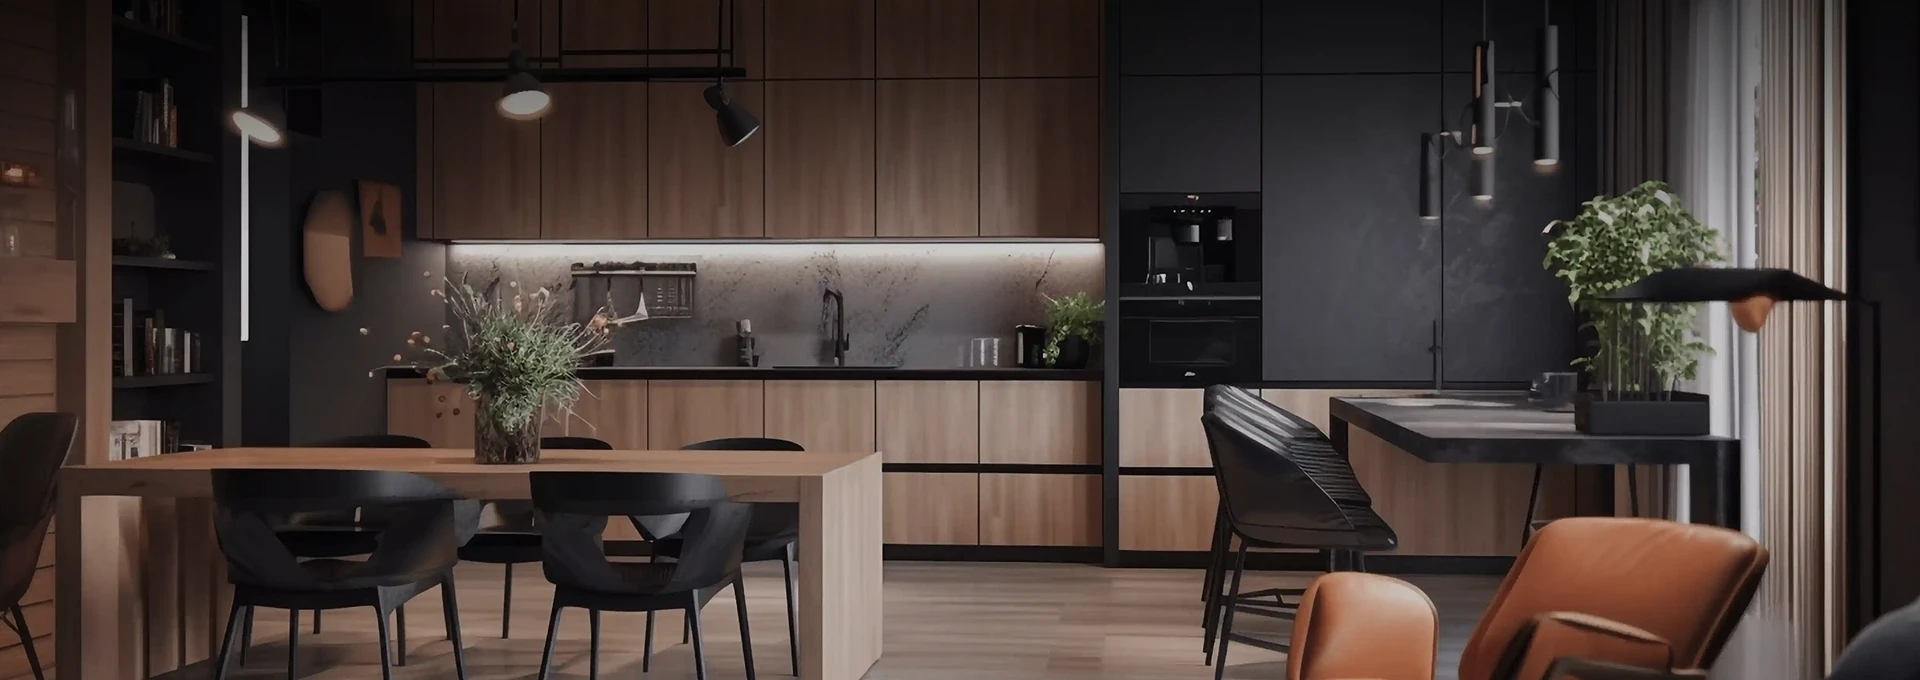
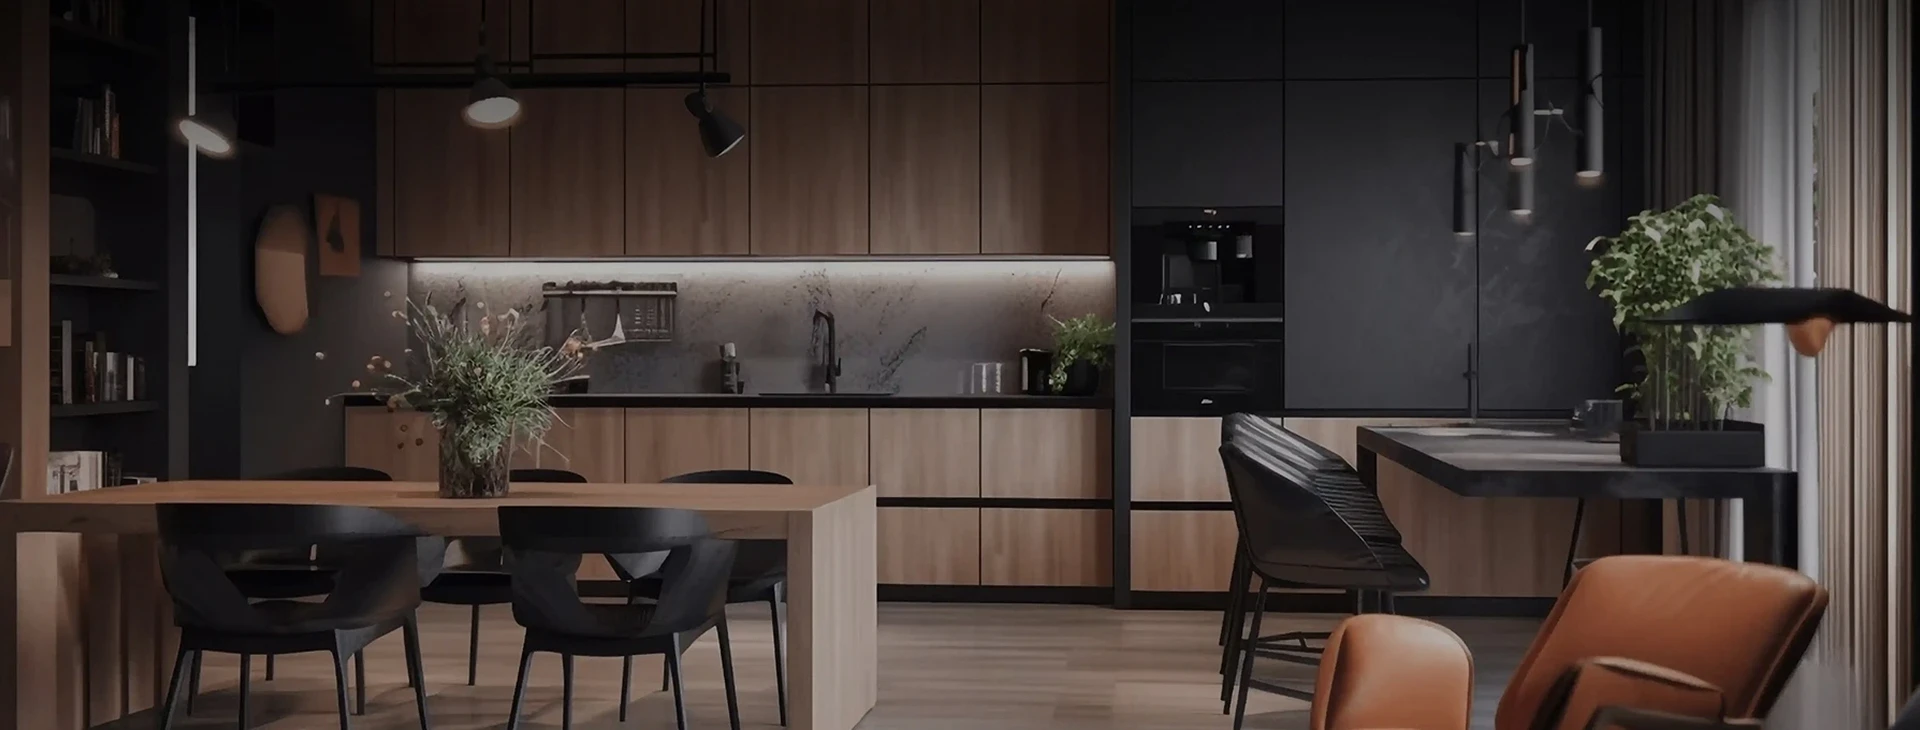
Hero section (#41)
* главный экран

* паралакс на главном экране

diff --git a/js/theme.js b/js/theme.js
@@ -1,27 +1,13 @@
-jQuery(function ($) {
-    /* Parallax home section */
-    $(window).scroll(function (e) {
-        var scrolled = $(window).scrollTop();
-        $('.parallax-home-section').css('top', (-(scrolled * .35)) + 'px'); // 35 - скорость прокрутки
-        $('.parallax-home-section-closets').css('top', (-(scrolled * .35)) + 'px'); // 35 - скорость прокрутки
-        $('.index-parallax-home-section').css('top', (-(scrolled * .35)) + 'px'); // 35 - скорость прокрутки
-
-    });
-});
-
-jQuery(function ($) {
-    $(window).on('scroll', function () {
-        const scrollTop = $(window).scrollTop();
-        const sectionTop = $('.parallax-background').offset().top;
-        const sectionHeight = $('.parallax-background').outerHeight();
-
-        if (scrollTop + window.innerHeight > sectionTop &&
-            scrollTop < sectionTop + sectionHeight) {
-
-            const offset = (scrollTop - sectionTop) * 0.25;
-            $('.parallax-background').css('transform', `translateY(${offset}px)`);
-        }
-    });
+/* Parallax home section */
+$(window).scroll(function (e) {
+    var scrolled = $(window).scrollTop();
+    $('.parallax-home-section').css('top', (-(scrolled * .35)) + 'px'); // 35 - скорость прокрутки
+    $('.parallax-home-section-closets').css('top', (-(scrolled * .35)) + 'px'); // 35 - скорость прокрутки
+    $('.index-parallax-home-section').css('top', (-(scrolled * .35)) + 'px'); // 35 - скорость прокрутки
+    $('.jobs-home-section').css('top', (-(scrolled * .35)) + 'px'); // 35 - скорость прокрутки
+    $('.closets-home-section').css('top', (-(scrolled * .35)) + 'px'); // 35 - скорость прокрутки
+    $('.parallax-home-section-portfolio').css('top', (-(scrolled * .35)) + 'px'); // 35 - скорость прокрутки
+    $('.home-cucina-parallax-home-section').css('top', (-(scrolled * .35)) + 'px'); // 35 - скорость прокрутки
 });
 
 /* End parallax home section */

diff --git a/css/theme.css b/css/theme.css
@@ -667,6 +667,12 @@ a.navbar-brand {
     overflow: hidden;
 } 
 
+@media (max-width: 991.98px) {
+    .main-home-section {
+        min-height: 500px;
+    } 
+}
+
 .home-section-height {
 	min-height: 425px; }
 
@@ -677,6 +683,16 @@ a.navbar-brand {
 			padding-bottom: 60px;
 		}
 	}
+
+.min-home-section-height {
+    min-height: 200px;
+}
+
+@media (max-width: 991.98px) {
+    .home-section-height {
+        min-height: 440px;
+    }
+}
 /** End main home section **/
 
 .home-cutting {
@@ -794,11 +810,46 @@ a.navbar-brand {
 	/*display: block;*/ 
 }
 
+/* Parallax home section closets */
+.jobs-home-section {
+	min-height: 400px;
+	width: 100%;
+	position: fixed;
+	background: url(../img/bg-jobs.webp) no-repeat;
+	background-position: 50% 50%;
+	background-size: cover;
+	z-index: -1;
+    top: 0;
+}
+
+h1.home-title {
+    margin-bottom: 0;
+}
+    
 /* md (less than 768px) */
 @media (max-width: 767.98px) {
     .parallax-home-section-closets {
         background-position: 25% 50%;
     }
+
+    .site-wrap {
+        min-height: 300px !important;
+        height: auto !important;
+    }
+
+    /* Parallax home section closets */
+    .jobs-home-section {
+        min-height: 300px !important;
+        background: url(../img/bg-jobs-mobile.webp) no-repeat;
+        background-position: 50% 50%;
+	    background-size: cover;
+    }
+
+    .home-section-height {
+        min-height: 300px;
+        height: 100% !important;
+    }
+
 }
 
 /* Parallax home section */

diff --git a/archive-portfolio.php b/archive-portfolio.php
@@ -12,8 +12,8 @@
 	
 <!-- Home section -->
 <div id="sp-home" class="scroll-points"></div>
-<section class="main-home-section">
-	<div class="parallax-home-section" style="min-height: 640px;"></div>
+<section class="site-wrap" style="height: 400px; z-index: auto;">
+	<div class="jobs-home-section" style="min-height: 400px;"></div>
     <header class="d-none d-lg-block">
         <!-- Header nav top -->
         <nav class="header-nav-top navbar navbar-expand-lg navbar-light d-none d-lg-block py-0">
@@ -246,7 +246,7 @@
 		<!-- /Header nav bottom -->
 	</header>
 	<div class="container">
-		<div class="row align-items-center home-section-height">
+		<div class="row align-items-center home-section-height min-home-section-height">
 			<div class="col-xl-10 col-xxl-9">
 				<h1 class="home-title" style="color: #fff;">Наши работы</h1>
 			</div>	

diff --git a/contact.php b/contact.php
@@ -10,10 +10,10 @@
 ?>
 
 
-<div class="site-wrap" style="height: 640px; z-index: auto;">
+<div class="site-wrap" style="height: 400px; z-index: auto;">
 	<!-- Header -->
 	<div class="site-navbar-wrap">
-		<div class="parallax-home-section" style="min-height: 640px;"></div>
+		<div class="jobs-home-section" style="min-height: 400px;"></div>
 		<!-- <div class="overlay"></div> -->
 		<div id="sp-home" class="scroll-points"></div>
         <header class="d-none d-lg-block">
@@ -248,7 +248,7 @@
 			<!-- /Header nav bottom -->
 		</header><!-- site-navbar -->
 		<div class="container">
-			<div class="row align-items-center home-section-height">
+			<div class="row align-items-center home-section-height min-home-section-height">
 				<div class="col-xl-10 col-xxl-9">
 					<h1 class="home-title text-light">Контакты</h1>
 				</div>	

diff --git a/taxonomy-portfolio-cat.php b/taxonomy-portfolio-cat.php
@@ -12,8 +12,8 @@
 		
 <!-- Home section -->
 <div id="sp-home" class="scroll-points"></div>
-<section class="main-home-section">
-	<div class="parallax-home-section" style="min-height: 640px;"></div>
+<section style="height: 400px; z-index: auto;">
+	<div class="jobs-home-section" style="min-height: 400px;"></div>
     <header class="d-none d-lg-block">
         <!-- Header nav top -->
         <nav class="header-nav-top navbar navbar-expand-lg navbar-light d-none d-lg-block py-0">
@@ -246,7 +246,7 @@
 		<!-- /Header nav bottom -->
 	</header>
 	<div class="container">
-		<div class="row align-items-center home-section-height">
+		<div class="row align-items-center home-section-height min-home-section-height">
 			<div class="col-xl-10 col-xxl-9">
 				<h1 class="home-title" style="color: #fff;">Наши работы</h1>
 			</div>	

diff --git a/archive-actions.php b/archive-actions.php
@@ -9,11 +9,10 @@
 	
 ?>
 	
-	
 <!-- Home section -->
 <div id="sp-home" class="scroll-points"></div>
-<section class="main-home-section">
-	<div class="parallax-home-section" style="min-height: 640px;"></div>
+<section class="site-wrap" style="height: 400px; z-index: auto;">
+	<div class="jobs-home-section" style="min-height: 400px;"></div>
     <header class="d-none d-lg-block">
         <!-- Header nav top -->
         <nav class="header-nav-top navbar navbar-expand-lg navbar-light d-none d-lg-block py-0">
@@ -245,7 +244,7 @@
 		<!-- /Header nav bottom -->
 	</header>
 	<div class="container">
-		<div class="row align-items-center home-section-height">
+		<div class="row align-items-center home-section-height min-home-section-height">
 			<div class="col-xl-10 col-xxl-9">
 				<h1 class="home-title">Акции</h1>
 			</div>	
